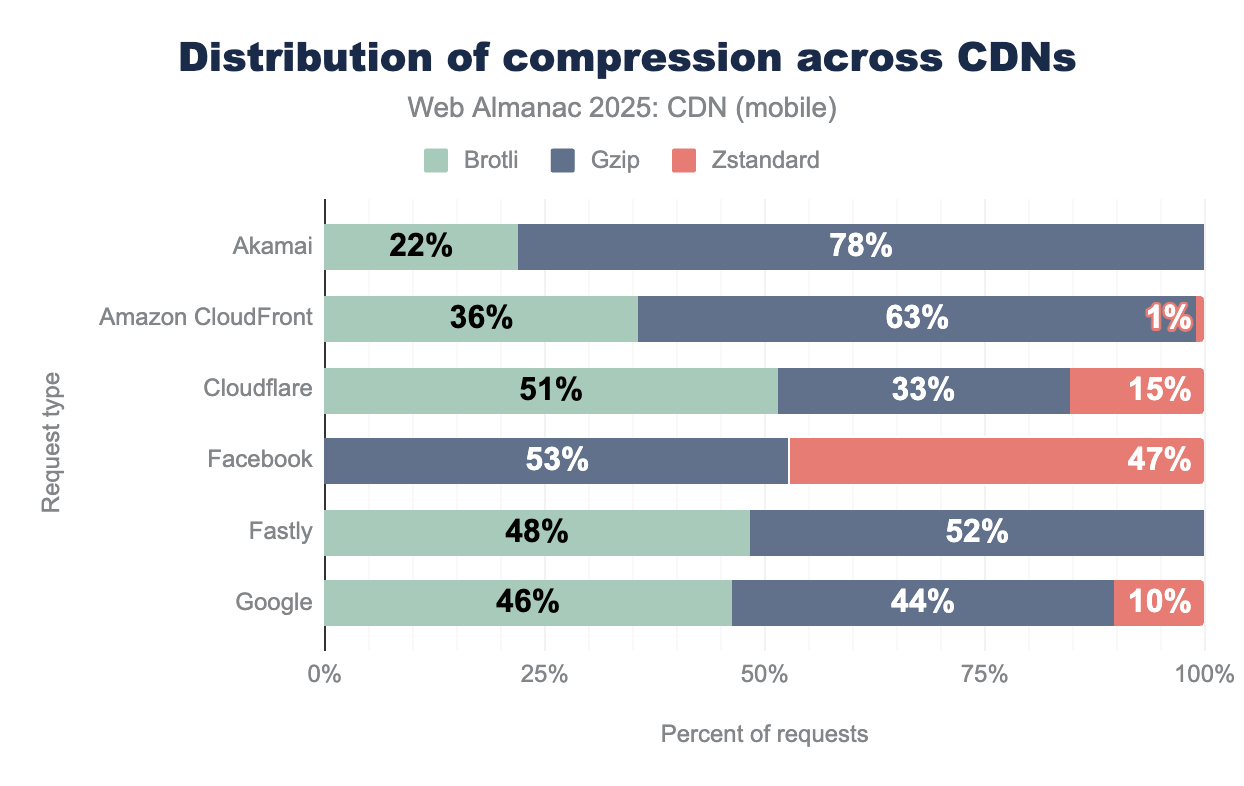
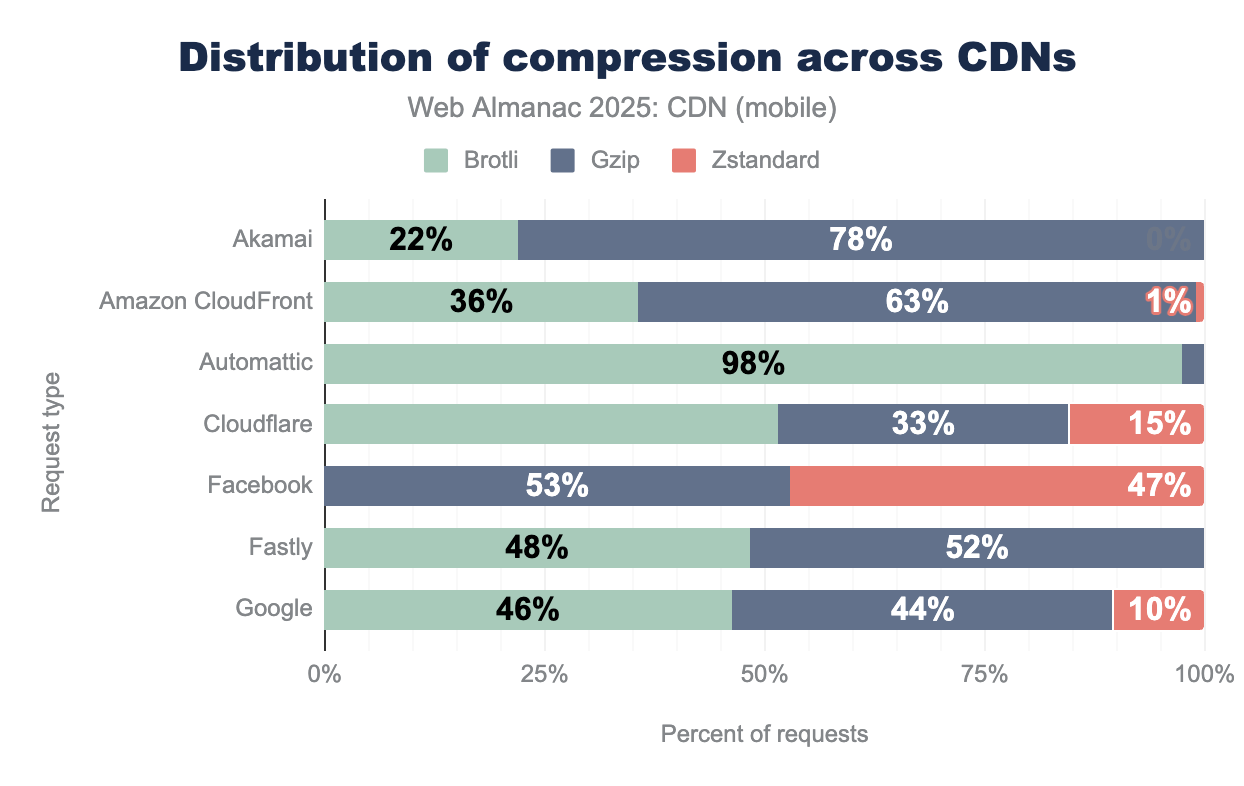
Final edits

Changed region(s): [[0.0611, 0.2748, 0.9775, 0.8244], [0.1833, 0.7328, 0.2444, 0.7939]]

diff --git a/src/content/en/2025/cdn.md b/src/content/en/2025/cdn.md
@@ -13,11 +13,11 @@ joeviggiano_bio: Joe Viggiano is a Principal Solutions Architect at Amazon Web S
 nick-mccord_bio: Nick McCord is a Solutions Architect at Amazon Web Services focusing on startups and edge services.
 AlexMoening_bio: Alex Moening is a Senior Edge Solutions Architect at Amazon Web Services.
 featured_quote: CDNs have become the vanguard of web protocol evolution, with leading providers achieving 69% HTTP/3 adoption compared to less than 5% for origin servers, demonstrating how edge infrastructure drives the adoption of next-generation web standards.
-featured_stat_1: 69.14%
-featured_stat_label_1: Cloudflare's HTTP/3 adoption rate, leading the industry
-featured_stat_2: 95.6%
+featured_stat_1: 49.9%
+featured_stat_label_1: Cloudflare's HTTP/3 adoption rate for documents, leading the industry
+featured_stat_2: 98.6%
 featured_stat_label_2: CDN requests using TLS 1.3 for enhanced security
-featured_stat_3: 97.49%
+featured_stat_3: 97.4%
 featured_stat_label_3: Automattic's Brotli compression adoption
 ---
 
@@ -65,7 +65,7 @@ CDNs serve as deployment platforms for emerging web standards, implementing new 
 
 Our 2025 analysis builds upon the methodology established in previous years while incorporating new metrics and deeper performance analysis. The statistics gathered focus on applicable technologies and optimization patterns rather than vendor-specific performance comparisons.
 
-**Important Note on Measurements**: All TLS negotiation times, DNS resolution times, and performance metrics in this analysis are measured from HTTP Archive's simulated browser connections using Chrome on controlled infrastructure. These measurements represent:
+**Important note on measurements**: All TLS negotiation times, DNS resolution times, and performance metrics in this analysis are measured from HTTP Archive's simulated browser connections using Chrome on controlled infrastructure. These measurements represent:
 - Consistent network conditions (controlled datacenter connectivity)
 - Chrome browser's TLS implementation
 - First-time connections without session resumption
@@ -198,7 +198,7 @@ HTTP/3 reduces connection establishment from HTTP/2's 3 RTTs (TCP handshake, TLS
 
 Modern CDNs are beginning to implement HTTPS DNS records, a type of Service Binding (SVCB) / HTTPS records that allows DNS responses to advertise HTTP/3 availability and connection parameters directly. When a browser queries DNS for a CDN enabled domain, HTTPS records can indicate HTTP/3 support on port 443 with specific QUIC parameters, enabling immediate HTTP/3 connections without the traditional HTTP/2 to HTTP/3 upgrade process. This DNS level optimization is particularly powerful for CDNs managing multiple domains and services, as it eliminates protocol upgrade negotiations and can reduce connection establishment time. However, HTTPS record implementation varies significantly across CDN providers, with some leading adoption while others have not yet implemented support.
 
-### Important Methodological Considerations
+### Important methodological considerations
 
 **Our HTTP/3 adoption measurements reflect the specific characteristics of HTTP Archive's methodology and should not be interpreted as representative of overall internet traffic:**
 
@@ -209,18 +209,9 @@ Modern CDNs are beginning to implement HTTPS DNS records, a type of Service Bind
 
 These measurements are valuable for understanding protocol adoption among leading web properties and CDN-served resources, but should not be extrapolated to represent general internet usage patterns.
 
-### HTTP/3 Adoption Among CDN Providers
+### HTTP/3 adoption among CDN providers
 
 In 2025, using consistent methodology from previous years, we observed significant HTTP/3 adoption among CDN-served resources. While these numbers reflect the specific subset of sites and resources in our dataset, they demonstrate clear patterns in CDN protocol deployment:
-
-**2025 HTTP/3 Adoption Data (Mobile, Non-Main-Document Resources):**
-- **Cloudflare**: 69.14% (271M of 392M requests)
-- **Google CDN**: 29.62% (200M of 678M requests)
-- **Facebook**: 28.15% (15.7M of 56M requests)
-- **Amazon CloudFront**: 13.88% (19.6M of 141M requests)
-- **Fastly**: 7.66% (4.7M of 61M requests)
-- **Akamai**: 5.73% (4M of 70M requests)
-- **Origin servers**: 7.3% for resources, <1% for main documents
 
 {{ figure_markup(
   image="cdn-http-versions-mobile.png",
@@ -245,6 +236,127 @@ Within our dataset, the data reinforces the role CDNs play in driving the adopti
 }}
 
 While HTTP/1.1 usage has been on a continued decline with CDNs over the past several years, in 2025 we observed a sharp decrease in CDN usage for HTTP/1.1 going from 16% usage for HTML requests in 2024 to just 2% in 2025. This decrease was even more pronounced for origin requests with 56% HTTP/1.1 requests in 2024 down to 21% in 2025.
+
+Looking at individual CDNs HTTP/3 support we see the following for documents (often the initial requests):
+
+<figure>
+  <table>
+    <thead>
+      <tr>
+        <th>CDN</th>
+        <th>Desktop</th>
+        <th>Mobile</th>
+      </tr>
+    </thead>
+    <tbody>
+      <tr>
+        <td>Cloudflare</td>
+        <td class="numeric">44.0%</td>
+        <td class="numeric">49.9%</td>
+      </tr>
+      <tr>
+        <td>CDN</td>
+        <td class="numeric">6.2%</td>
+        <td class="numeric">5.0%</td>
+      </tr>
+      <tr>
+        <td>Amazon CloudFront</td>
+        <td class="numeric">3.2%</td>
+        <td class="numeric">3.8%</td>
+      </tr>
+      <tr>
+        <td>Sucuri Firewall</td>
+        <td class="numeric">0.5%</td>
+        <td class="numeric">0.6%</td>
+      </tr>
+      <tr>
+        <td>Akamai</td>
+        <td class="numeric">0.2%</td>
+        <td class="numeric">0.2%</td>
+      </tr>
+      <tr>
+        <td>QUIC.cloud</td>
+        <td class="numeric">0.1%</td>
+        <td class="numeric">0.1%</td>
+      </tr>
+      <tr>
+        <td>Google</td>
+        <td class="numeric">0.1%</td>
+        <td class="numeric">0.1%</td>
+      </tr>
+    </tbody>
+  </table>
+  <figcaption>{{ figure_link(caption="Top rates of document requests server by HTTP/3.", sheets_gid="1928910266", sql_file="h3_adoption_by_cdn_provider.sql") }}</figcaption>
+</figure>
+
+Special call out to Cloudflare who are leading the industry here.
+
+While subresources requests have a much higher rate of adoption since they often are used for multiple requests where subsequent requests are more likely to be made over HTTP/3:
+
+<figure>
+  <table>
+    <thead>
+      <tr>
+      <th>CDN</th>
+      <th>Desktop</th>
+      <th>Mobile</th>
+      </tr>
+    </thead>
+    <tbody>
+      <tr>
+        <td>Facebook</td>
+        <td class="numeric">99.4%</td>
+        <td class="numeric">99.9%</td>
+      </tr>
+      <tr>
+        <td>Nexcess CDN</td>
+        <td class="numeric">97.7%</td>
+        <td class="numeric">99.6%</td>
+      </tr>
+      <tr>
+        <td>Sucuri Firewall</td>
+        <td class="numeric">71.2%</td>
+        <td class="numeric">68.4%</td>
+      </tr>
+      <tr>
+        <td>Cloudflare</td>
+        <td class="numeric">68.6%</td>
+        <td class="numeric">69.5%</td>
+      </tr>
+      <tr>
+        <td>Reapleaf</td>
+        <td class="numeric">59.5%</td>
+        <td class="numeric">59.1%</td>
+      </tr>
+      <tr>
+        <td>Erstream</td>
+        <td class="numeric">31.5%</td>
+        <td class="numeric">77.4%</td>
+      </tr>
+      <tr>
+        <td>QUIC.cloud</td>
+        <td class="numeric">48.8%</td>
+        <td class="numeric">47.3%</td>
+      </tr>
+      <tr>
+        <td>Google</td>
+        <td class="numeric">39.6%</td>
+        <td class="numeric">42.2%</td>
+      </tr>
+      <tr>
+        <td>Pressable CDN</td>
+        <td class="numeric">40.1%</td>
+        <td class="numeric">40.8%</td>
+      </tr>
+      <tr>
+        <td>Automattic</td>
+        <td class="numeric">25.6%</td>
+        <td class="numeric">29.0%</td>
+      </tr>
+    </tbody>
+  </table>
+  <figcaption>{{ figure_link(caption="Top rates of document requests server by HTTP/3.", sheets_gid="1928910266", sql_file="h3_adoption_by_cdn_provider.sql") }}</figcaption>
+</figure>
 
 ## CDN Performance
 
@@ -298,12 +410,6 @@ The data demonstrates that CDNs using HTTP/2 nearly universally advertise HTTP/3
 ### Server-Timing
 
 Defined in the W3C Server-Timing specification, the `Server-Timing` HTTP header allows servers to communicate performance metrics about request processing back to the browser. This header communicates performance metrics directly, transforming opaque server processing into observable and debuggable data. Specific to CDNs, `Server-Timing` headers can be useful for providing transparency into CDN edge processing time, origin fetch duration, or cache status without requiring additional monitoring infrastructure.
-
-**2025 Server-Timing Adoption Data:**
-- **Cloudflare (H3)**: 98.79% (310M of 314M requests)
-- **Automattic (HTTP/2)**: 76.15% (11.8M of 15.5M requests)
-- **Cloudflare (HTTP/2)**: 34.59% (47M of 136M requests)
-- **Akamai (H3)**: 29.29% (884K of 3M requests)
 
 {{ figure_markup(
   image="cdn-http-server-timing-headers-mobile.png",
@@ -359,13 +465,6 @@ From the 2025 dataset we observed several commonly used compression algorithms:
 - **Brotli**: Modern algorithm offering 20-26% better compression than Gzip
 - **Zstandard (Zstd)**: Emerging standard with excellent compression ratios and speed
 
-**2025 Brotli Adoption Leaders (Desktop):**
-- **Automattic**: 97.49% Brotli (8.66M of 8.89M compressed requests)
-- **BunnyCDN**: 95.05% Brotli (5.19M of 5.47M compressed requests)
-- **Cloudflare**: 58.74% Brotli (111.7M of 190.2M compressed requests)
-- **Amazon CloudFront**: 35.42% Brotli (22.7M of 64M compressed requests)
-- **Akamai**: 23.39% Brotli (5.7M of 24.6M compressed requests)
-
 {{ figure_markup(
   image="cdn-compression-mobile.png",
   caption="Distribution of compression types (mobile).",
@@ -388,16 +487,19 @@ CDNs are leading the adoption of Brotli and Zstandard compression. Compared to 2
   )
 }}
 
-While still in 3rd place in terms of adoption, Zstandard has made gains in 2025 compared to 2024. In 2024, only Facebook's CDN had any statistically measurable usage of Zstandard, while in 2025 both Cloudflare (15%) and Google CDN (10%) showed measurable adoption. Cloudflare's newer compression defaults and configuration options may help explain the observed data. The one outlier to the dataset was Amazon CloudFront, which currently does not support Zstandard compression natively. However, the data observed showed CloudFront passing through already compressed data from origin using Zstandard. This demonstrates content owner's desire to use Zstandard even though not all major CDN providers support it.
+Special credit to Automattic with 98% of their eligible resources being served using Brotli!
 
-**Future Compression Trends:**
-Looking ahead, the industry is exploring Dictionary Compression (Shared Brotli) which promises:
+While still in 3rd place in terms of adoption, Zstandard has made gains in 2025 compared to 2024. In 2024, only Facebook's CDN had any statistically measurable usage of Zstandard, while in 2025 both Cloudflare (15%) and Google CDN (10%) showed measurable adoption. Cloudflare's newer compression defaults and configuration options may help explain the observed data. The outliers to the dataset were Amazon CloudFront and Automattic, which currently do not support Zstandard compression natively. However, the data observed showed CloudFront passing through already compressed data from origin using Zstandard. This demonstrates content owner's desire to use Zstandard even though not all major CDN providers support it.
+
+### Future compression trends
+
+Looking ahead, the industry is exploring [Dictionary Compression (Shared Brotli)](https://developer.mozilla.org/docs/Web/HTTP/Guides/Compression_dictionary_transport) which promises:
 - 20-40% better compression for repeated content patterns
 - Shared dictionaries across related resources
 - Chrome Origin Trial launched in 2024
 - Expected CDN support rollout in 2025-2026
 
-This represents the next frontier in compression optimization, building on Brotli's success.
+This represents the next frontier in compression optimization, building on Brotli's success and is one to watch in future editions of the Web Almanac.
 
 ## TLS usage
 
@@ -408,12 +510,6 @@ Transport Layer Security (TLS) forms the foundation of secure web communications
 TLS 1.3 improves the overall security of web traffic compared to earlier versions that included weaker cryptographic algorithms that had known vulnerabilities. The protocol also reduces handshake latency through its optimized design.
 
 **Note on TLS 1.0 and 1.1 Absence**: Our measurements show zero usage of TLS 1.0 and 1.1 across all requests. This is expected because HTTP Archive uses modern Chrome browsers for measurement, which completely removed support for these deprecated protocols in July 2020 (Chrome 84). Servers that only support TLS 1.0 or 1.1 would result in connection failures rather than successful requests, thus not appearing in our data. While these legacy protocols may still exist in some enterprise environments or IoT devices, they are no longer viable for public web services accessed by modern browsers.
-
-**2025 TLS 1.3 Adoption Data:**
-- **CDN (Mobile)**: 95.6% (797M of 834M requests)
-- **CDN main documents**: 98.58% (6.86M of 6.96M requests)
-- **Origin (Mobile)**: 77.7% (898M of 1.15B requests)
-- **Origin main documents**: 79.79% (14.9M of 18.7M requests)
 
 Nearly all CDN traffic now uses TLS 1.3, with 99% of requests leveraging the latest protocol version. This benefits developers through faster connection establishment times, directly improving page load speeds. CDN providers continue to be early adopters of new web technologies, which means applications using CDNs get these performance and security enhancements with little to no additional effort.
 
@@ -501,14 +597,7 @@ The 2025 data underscore a clear trajectory: legacy formats like JPEG still domi
 
 Client Hints were introduced as an alternative to the User-Agent string, letting web servers request specific information from browsers through HTTP headers. They fall into four main categories: device information, user agent preferences, user preference media features, and networking details. These hints are further split into high and low entropy types. High entropy hints can potentially be used for fingerprinting, so browsers usually require user permission or enforce other policies before sharing them. Low entropy hints are less useful for fingerprinting and may be sent by default based on browser or user settings.
 
-In 2025, we continued measuring Client Hints using the same methodology established in 2024 - detecting the `Accept-CH` header in responses. The 2024 data showed less than 4% adoption, and our 2025 analysis reveals significant variations by CDN provider:
-
-**2025 Client Hints Adoption (Accept-CH Header):**
-- **Microsoft Azure**: 16.14% (2.4M of 15M requests) - highest adoption
-- **Google (HTTP/2)**: 4.23% (15.7M of 371M requests)
-- **ORIGIN (HTTP/2)**: 3.37% (28M of 831M requests)
-- **Cloudflare (H3)**: 0.28% (887K of 314M requests)
-- **Facebook (H3)**: 0.27% (111K of 41M requests)
+In 2025, we continued measuring Client Hints using the same methodology established in 2024 - detecting the `Accept-CH` header in responses.
 
 {{ figure_markup(
   image="cdn-client-hints-mobile.png",
@@ -525,12 +614,6 @@ Client Hints buck the usual pattern of CDNs leading adoption: CDN usage was flat
 ## Early Hints
 
 Early Hints uses the <a hreflang="en" href="https://datatracker.ietf.org/doc/html/rfc8297#section-2">HTTP 103 status code</a> to let servers send initial headers to browsers while the main response is still being prepared. This is especially useful for preloading important resources like stylesheets, JavaScript files, and fonts before the full page is ready. Despite its potential for improving performance, adoption remains minimal.
-
-**2025 Early Hints Adoption Data:**
-- **Overall adoption**: Near 0% (only 201 status 103 responses out of billions)
-- **CDNs total**: 1,894,404 Early Hints responses (mobile)
-- **Origin total**: 45,198 Early Hints responses (mobile)
-- **CDN advantage**: 42x more Early Hints responses than origin servers
 
 {{ figure_markup(
   image="cdn-early-hints-mobile.png",
